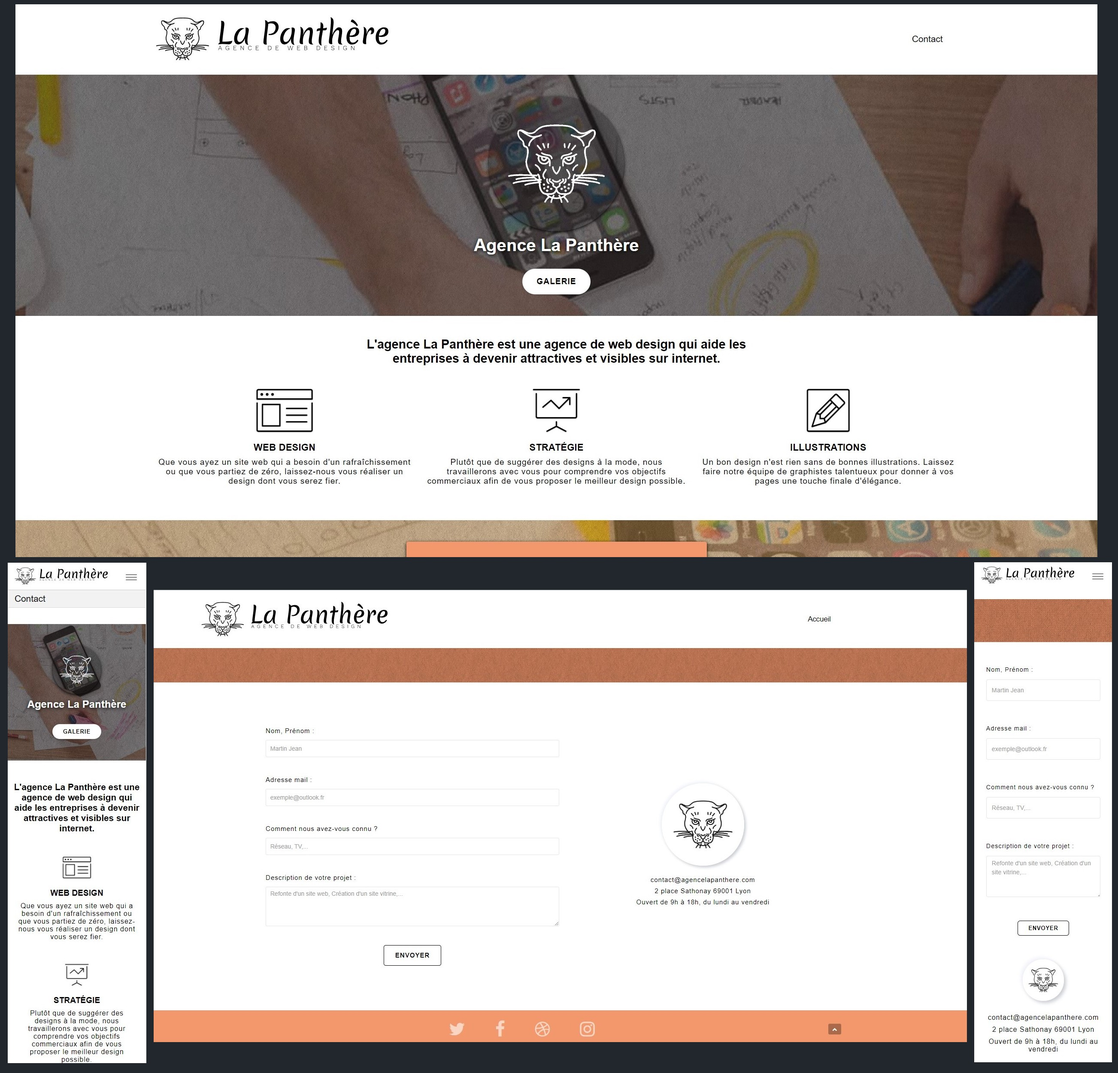
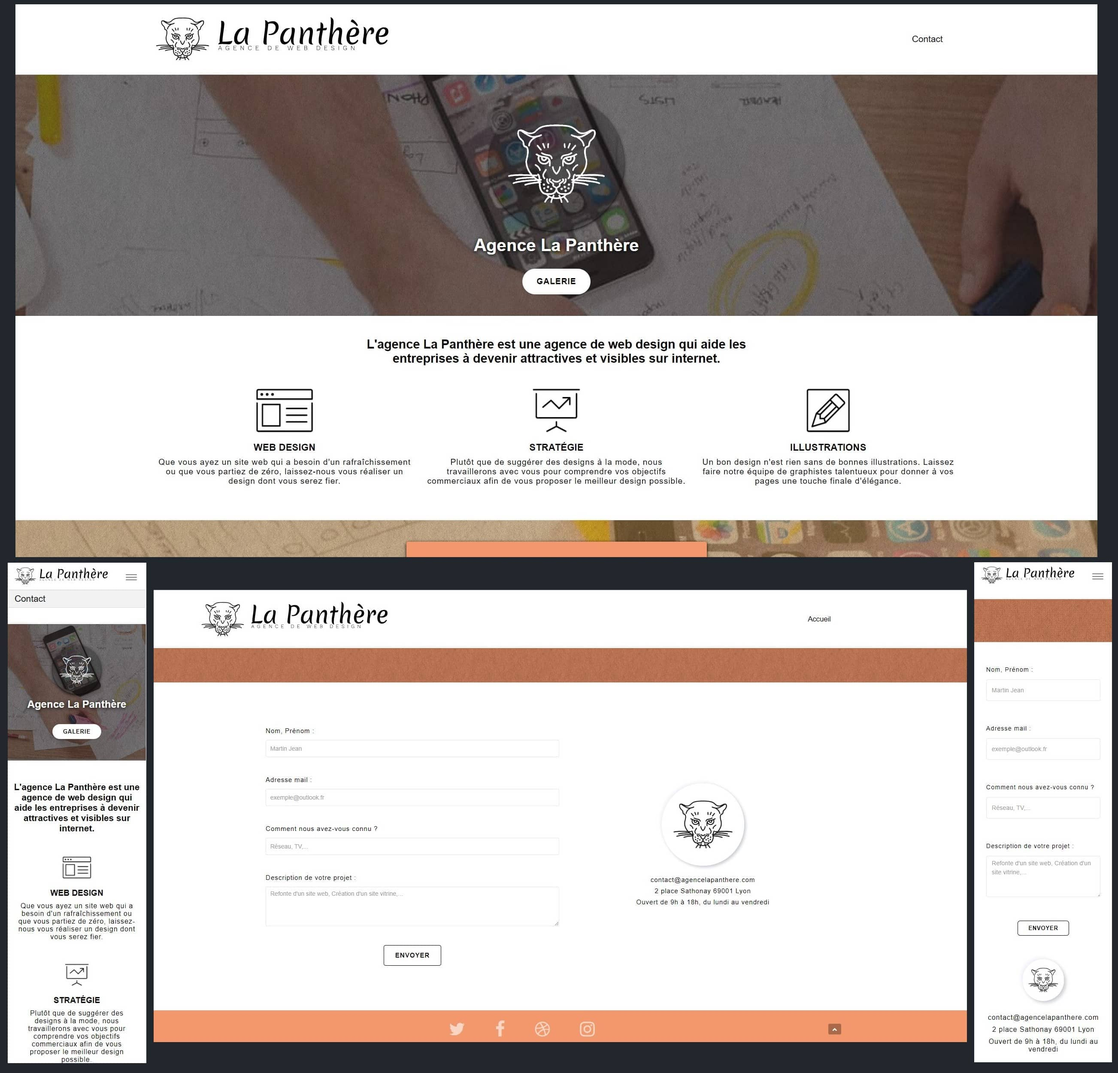
changement visuel, responsive

diff --git a/css/style.css b/css/style.css
@@ -1,1 +1,1 @@
-*,::before,::after{box-sizing:border-box;margin:0;padding:0}html{font-size:16px;scroll-behavior:smooth}body{width:100%;max-width:2600px}p{font-size:clamp(1rem,2.5vw,1.2rem);letter-spacing:1px}a:hover{text-decoration:none;cursor:pointer}li{list-style-type:none}h3{text-transform:uppercase;font-family:'helvetica';font-size:clamp(1.2rem,2vw,1.4rem);font-weight:700}.bloc{clear:both;position:relative;width:100%;padding:0 50px;background:50% 50% no-repeat;background-size:cover}.bloc .container{position:relative;padding-right:0;padding-left:0}.bloc-lg{padding:50px}.white{text-shadow:0 2px 8px #000;font-family:"helvetica";font-size:clamp(1.3rem,3vw,1.8rem);color:#fff}.bloc-md{padding:50px}.bloc-sm{padding:30px 50px}.bg-repeat{background:repeat}.bloc-bg-texture::before{content:"";position:absolute;top:0;right:0;bottom:0;left:0;background-size:2px 2px}.texture-paper::before{background:url(../img/texture-paper.webp);background-size:280px 280px}.b-parallax{background-attachment:fixed}.d-bloc .a-btn,.d-bloc .navbar a,.d-bloc .navbar-brand,.d-bloc a .icon-sm,.d-bloc a .icon-md,.d-bloc a .icon-lg,.d-bloc a .icon-xl,.d-bloc h1 a,.d-bloc h2 a,.d-bloc h3 a,.d-bloc h4 a,.d-bloc h5 a,.d-bloc h6 a,.d-bloc p a{color:rgba(255,255,255,.6)}.d-bloc .a-btn:hover,.d-bloc .navbar a:hover,.d-bloc .navbar-brand:hover,.d-bloc a:hover .icon-sm,.d-bloc a:hover .icon-md,.d-bloc a:hover .icon-lg,.d-bloc a:hover .icon-xl,.d-bloc h1 a:hover,.d-bloc h2 a:hover,.d-bloc h3 a:hover,.d-bloc h4 a:hover,.d-bloc h5 a:hover,.d-bloc h6 a:hover,.d-bloc p a:hover{color:rgba(255,255,255,1)}.l-bloc .navbar-toggle .icon-bar{color:rgba(0,0,0,.6)}.voffset-lg{margin-top:80px}.row-no-gutters{margin-right:0;margin-left:0}blockquote{margin:0 auto;margin-top:30px;max-width:1000px;font-size:clamp(1rem,2.5vw,1.2rem)}blockquote:nth-child(2){color:rgb(113,111,111)}#bloc-1-hero{background-color:#364577;height:450px}#bloc-1-hero h1{text-shadow:0 2px 8px #000;font-family:"helvetica";font-size:clamp(1.5rem,4vw,2.5rem);color:#fff}#bloc-6 h1{font-family:"helvetica";font-size:clamp(1.5rem,4vw,2.5rem)}.navbar{z-index:1;margin-bottom:0}.navbar-brand{height:auto;padding:3px 15px;font-size:25px;font-weight:400;font-weight:600;line-height:44px}.navbar-brand img{height:100px;max-height:200px}.navbar-brand img[src$=svg]{min-width:100px}.nav-center .navbar-brand img{margin:0}.navbar .nav{z-index:1;float:right;margin-right:-16px;padding-top:2px}.nav>li{float:left;margin:0 30px;margin-top:4px;font-size:1.3rem}.nav li a{position:relative;color:#000}.nav li a::after{content:'';position:absolute;bottom:5px;left:50%;width:0;height:3px;background-color:#F3976C;transition:width 0.2s ease-in-out;transform:translateX(-50%)}.nav li a:hover::after,.nav li a:focus::after{width:65%}.navbar-nav .open .dropdown-menu>li>a{text-align:inherit}.nav>li a:hover,.nav>li a:focus{background:transparent}.navbar-toggle{margin:10px 10px 0 0;border:0}.navbar-toggle:hover{background:transparent}.navbar-toggle .icon-bar{width:26px;background-color:rgba(0,0,0,.5)}.nav-invert .navbar .nav{float:left}.nav-invert .navbar-header,.nav-invert .navbar-brand{z-index:2;float:right;position:relative}form{width:50%;margin:40px 0}.nav>li>.dropdown a{display:block;padding:14px 15px;background:none}nav .caret{margin:0 5px}.dropdown-menu .dropdown-menu{top:-8px;left:100%}.dropdown-menu .dropmenu-flow-right{top:100%;left:0;margin-left:-1px;border-top-left-radius:0;border-top-right-radius:0}.dropdown-menu .dropdown span{float:right;margin:6px -5px 0 0;border:4px solid #000;border-top-color:transparent;border-right-color:transparent;border-bottom-color:transparent}.btn{border:1px solid #000}.btn-d,.btn-d:hover,.btn-d:focus{color:#FFF;background:rgba(0,0,0,.3)}.btn-rd{border-radius:40px}.btn-clean{border:1px solid rgba(0,0,0,.08);border-bottom-color:rgba(0,0,0,.1);text-shadow:0 1px 0 rgba(0,0,1,.1);box-shadow:0 1px 3px rgba(0,0,1,.25),inset 0 1px 0 0 rgba(255,255,255,.15)}.icon-md{font-size:clamp(30px,3vw,50px)}.icon-lg{font-size:clamp(50px,5vw,100px)}.sm-shadow{text-shadow:0 1px 2px rgba(0,0,0,.3)}.form-control{height:50px;border-color:rgba(0,0,0,.1);font-size:clamp(.9rem,2vw,1.1rem);box-shadow:none}.scrollToTop{display:flex;z-index:500;position:absolute;top:50%;right:20px;align-items:center;justify-content:center;border:none;opacity:1;transition:all .3s ease-in-out;transform:translateY(-50%)}a[data-lightbox]{display:block;position:relative;text-align:center;background-color:#000}a[data-lightbox]:hover::before{content:"+";display:flex;z-index:1;position:absolute;top:50%;left:50%;align-items:center;justify-content:center;width:50px;height:50px;border-radius:50%;font-family:"HelveticaNeue-Light","Helvetica Neue Light","Helvetica Neue",Helvetica,Arial;font-size:32px;font-weight:100;color:#FFF;background:rgba(0,0,0,.6);transform:translate(-50%,-50%)}a[data-lightbox]:hover img{opacity:.6;animation-fill-mode:none}#lightbox-modal{display:flex;align-items:center}#lightbox-modal .modal-dialog{margin:0 auto 0;max-width:900px}#lightbox-modal .modal-dialog img{margin:0 auto;max-height:90vh}.lightbox-caption{position:absolute;right:15px;bottom:5px;left:15px;padding:20px;text-align:center;color:#FFF;background:rgba(0,0,0,.5)}.close-lightbox{z-index:20;position:absolute;top:20px;right:20px;padding:0 9px 5px;border:none;font-size:30px;line-height:30px;color:#FFF;opacity:.3;background:rgba(0,0,0,.5)}.close-lightbox:hover,.next-lightbox:hover,.prev-lightbox:hover{color:#FFF;opacity:1}.next-lightbox,.prev-lightbox{z-index:1;position:absolute;top:45%;font-size:20px;color:rgba(255,255,255,.9);opacity:.4;background:rgba(0,0,0,.5);transition:all .2s ease-in-out}.next-lightbox{right:25px;padding:6px 8px 1px 13px}.prev-lightbox{left:25px;padding:6px 13px 1px 10px}.snapshot-lb .modal-body{padding-bottom:45px}.snapshot-lb .lightbox-caption{padding:0;color:rgb(0,0,0);background:none}.container{width:100%;max-width:1900px}.hero-bloc-text{font-size:38px}.tight-width-whitespace{margin:auto;max-width:700px}.logo{width:30%;border-radius:50%;background-color:#00000073;box-shadow:0 2px 8px rgb(0,0,0)}.logo-contact{width:45%;border-radius:50%;box-shadow:0 2px 8px rgb(0,0,0);box-shadow:5px 5px 8px #cbcfd5,-5px -5px 8px #eff3f9}label{margin-bottom:15px;font-size:clamp(.9rem,2vw,1.2rem);font-weight:500;letter-spacing:1px}.cta-hero{position:relative;margin-top:15px;padding:1rem 2rem;text-transform:uppercase;font-size:clamp(.8rem,2vw,1.2rem);font-weight:600;letter-spacing:1px;color:#000;background:#fff;transition:all 0.2s ease-in-out}.cta-hero:hover,.cta-hero:focus{background-color:#F3976C}.social{display:flex;justify-content:space-between;margin:auto;max-width:600px}.med-width-whitespace{margin:auto;max-width:2000px}.icons{margin-top:24px;margin-bottom:14px}.black-background{padding:40px;border-radius:5px;letter-spacing:1px;color:rgb(0,0,0);background-color:#F3976C;box-shadow:0 2px 8px rgb(0,0,0)}.bgc-white{background-color:#FFF}.bgc-atomic-tangerine{background-color:#F3976C}.bg-lines-h2-bg{background-image:url(../img/lines-h2-bg.png)}.bg-banniere{background-image:url(../img/agence-la-panthere.webp)}.bg-presentation{background-image:url(../img/image-de-presentation.webp)}.title-h2{width:100%;margin:0 auto;margin-bottom:30px;max-width:900px;font-family:"helvetica";font-size:clamp(1.3rem,3vw,1.8rem)}.flex-center{display:flex;align-items:center;justify-content:space-around;margin:40px 0}.flex-center p{margin:10px 0}.flex-center img{margin-bottom:20px}.portfolio-h2{width:100%;margin:40px auto;max-width:900px;font-family:"helvetica";font-size:clamp(1.3rem,3vw,1.8rem)}.navbar-toggle:focus span{background:#F3976C}@media (min-width:951px){.site-navigation{position:absolute;top:50%;right:20px;transform:translate(0,-50%);transform:translateY(-50%)}}@media only screen and (min-width:768px) and (max-width:1024px) and (orientation:landscape){.b-parallax{background-attachment:scroll}}@media only screen and (min-width:1024px) and (max-width:1366px){.b-parallax{background-attachment:scroll}}@media (max-width:950px){.b-parallax{background-attachment:scroll}.page-container,#hero-bloc{position:relative;overflow-x:hidden}.bloc-group,.bloc-group .bloc{display:block;width:100%}.bloc-fill-screen .fill-bloc-top-edge,.bloc-fill-screen .fill-bloc-bottom-edge{padding:0 20px}.nav>li{width:100%;margin:0;margin-top:0;padding-left:15px;border-bottom:1px solid rgba(0,0,0,.1);text-align:left;background:rgba(0,0,0,.05)}.nav>li:hover{background:rgba(0,0,0,.08)}.nav li a::after{content:'';display:none;position:absolute;bottom:0;left:50%;width:0;height:3px;background-color:#000;transition:width 0.2s ease-in-out;transform:translateX(-50%)}.navbar .nav{float:none;padding-top:0;border-top:1px solid rgba(0,0,0,.2)}.navbar.row{margin-right:0;margin-left:0}.navbar-brand img{width:auto;max-height:40px}.nav-invert .navbar-header{float:none;width:100%}.nav-invert .navbar-toggle{float:left;margin-left:10px}.navbar-collapse{padding:0;overflow-x:hidden;box-shadow:none}.logo-contact{width:30%}.flex-center{display:flex;flex-direction:column;justify-content:space-between;margin:0}.page-container{position:relative;overflow-x:hidden}h2,h3,h4,h5,h6,p,#disqus_thread{padding-right:10px;padding-left:10px}.b-parallax{background-attachment:scroll}.site-navigation{position:inherit;transform:none}.dropdown .dropdown a .caret{float:none;margin:5px 0 0 10px;border:4px solid #000;border-right-color:transparent;border-bottom-color:transparent;border-left-color:transparent}.cta-hero{padding:.5rem 1.5rem}#hero-bloc .navbar .nav{background:rgba(0,0,0,.8)}.bloc{padding-right:0;padding-left:0}.bloc-sm,.bloc-md{padding-right:0;padding-left:0}.bloc-tile-2 .container,.bloc-tile-3 .container,.bloc-tile-4 .container,.bloc-fill-screen .fill-bloc-top-edge,.bloc-fill-screen .fill-bloc-bottom-edge{padding-right:0;padding-left:0}.a-block{padding:0 10px}.btn-dwn{display:none}.voffset{margin-top:5px}.voffset-md{margin-top:20px}form{width:50%;width:95%;margin:0;margin-bottom:50px;padding:5px}.close-lightbox{display:inline-block}.blocsapp-device-iphone5{width:216px;height:425px;padding-top:60px;background-size:216px 425px}.blocsapp-device-iphone5 img{width:180px;height:320px}}@media screen and (max-width:768px){main .bloc-lg{padding:20px}.logo{width:150px;border-radius:50%;background-color:#00000073;box-shadow:0 2px 8px rgb(0,0,0)}#bloc-1-hero{background-color:#364577;height:288px}.black-background{padding:10px}.scrollToTop{top:-50px;border:1px solid rgba(255,255,255,.473)}}@media (max-width:400px){.bloc{padding-right:0;padding-left:0}.lightbox-caption{font-size:14px}}
+*,::before,::after{box-sizing:border-box;margin:0;padding:0}html{font-size:16px;scroll-behavior:smooth}body{width:100%;max-width:2600px}p{font-size:clamp(1rem,2.5vw,1.2rem);letter-spacing:1px}a:hover{text-decoration:none;cursor:pointer}li{list-style-type:none}h3{text-transform:uppercase;font-family:'helvetica';font-size:clamp(1.2rem,2vw,1.4rem);font-weight:700}.bloc{clear:both;position:relative;width:100%;padding:0 50px;background:50% 50% no-repeat;background-size:cover}.bloc .container{position:relative;padding-right:0;padding-left:0}.bloc-lg{padding:50px}.white{text-shadow:0 2px 8px #000;font-family:"helvetica";font-size:clamp(1.3rem,3vw,1.8rem);color:#fff}.bloc-md{padding:50px}.bloc-sm{padding:30px 50px}.bg-repeat{background:repeat}.bloc-bg-texture::before{content:"";position:absolute;top:0;right:0;bottom:0;left:0;background-size:2px 2px}.texture-paper::before{background:url(../img/texture-paper.webp);background-size:280px 280px}.b-parallax{background-attachment:fixed}.d-bloc .a-btn,.d-bloc .navbar a,.d-bloc .navbar-brand,.d-bloc a .icon-sm,.d-bloc a .icon-md,.d-bloc a .icon-lg,.d-bloc a .icon-xl,.d-bloc h1 a,.d-bloc h2 a,.d-bloc h3 a,.d-bloc h4 a,.d-bloc h5 a,.d-bloc h6 a,.d-bloc p a{color:rgba(255,255,255,.6)}.d-bloc .a-btn:hover,.d-bloc .navbar a:hover,.d-bloc .navbar-brand:hover,.d-bloc a:hover .icon-sm,.d-bloc a:hover .icon-md,.d-bloc a:hover .icon-lg,.d-bloc a:hover .icon-xl,.d-bloc h1 a:hover,.d-bloc h2 a:hover,.d-bloc h3 a:hover,.d-bloc h4 a:hover,.d-bloc h5 a:hover,.d-bloc h6 a:hover,.d-bloc p a:hover{color:rgba(255,255,255,1)}.l-bloc .navbar-toggle .icon-bar{color:rgba(0,0,0,.6)}.voffset-lg{margin-top:80px}.row-no-gutters{margin-right:0;margin-left:0}blockquote{margin:0 auto;margin-top:30px;max-width:1000px;font-size:clamp(1rem,2.5vw,1.2rem)}blockquote p:nth-child(2){color:rgb(113,111,111); margin-top: 5px;}#bloc-1-hero{background-color:#364577;height:450px}#bloc-1-hero h1{text-shadow:0 2px 8px #000;font-family:"helvetica";font-size:clamp(1.5rem,4vw,2.5rem);color:#fff}#bloc-6 h1{font-family:"helvetica";font-size:clamp(1.5rem,4vw,2.5rem)}.navbar{z-index:1;margin-bottom:0}.navbar-brand{height:auto;padding:3px 15px;font-size:25px;font-weight:400;font-weight:600;line-height:44px}.navbar-brand img{height:100px;max-height:200px}.navbar-brand img[src$=svg]{min-width:100px}.nav-center .navbar-brand img{margin:0}.navbar .nav{z-index:1;float:right;margin-right:-16px;padding-top:2px}.nav>li{float:left;margin:0 30px;margin-top:4px;font-size:1.3rem}.nav li a{position:relative;color:#000}.nav li a::after{content:'';position:absolute;bottom:5px;left:50%;width:0;height:3px;background-color:#F3976C;transition:width 0.2s ease-in-out;transform:translateX(-50%)}.nav li a:hover::after,.nav li a:focus::after{width:65%}.navbar-nav .open .dropdown-menu>li>a{text-align:inherit}.nav>li a:hover,.nav>li a:focus{background:transparent}.navbar-toggle{margin:10px 10px 0 0;border:0}.navbar-toggle:hover{background:transparent}.navbar-toggle .icon-bar{width:26px;background-color:rgba(0,0,0,.5)}.nav-invert .navbar .nav{float:left}.nav-invert .navbar-header,.nav-invert .navbar-brand{z-index:2;float:right;position:relative}form{width:50%;margin:40px 0}.nav>li>.dropdown a{display:block;padding:14px 15px;background:none}nav .caret{margin:0 5px}.dropdown-menu .dropdown-menu{top:-8px;left:100%}.dropdown-menu .dropmenu-flow-right{top:100%;left:0;margin-left:-1px;border-top-left-radius:0;border-top-right-radius:0}.dropdown-menu .dropdown span{float:right;margin:6px -5px 0 0;border:4px solid #000;border-top-color:transparent;border-right-color:transparent;border-bottom-color:transparent}.btn{border:1px solid #000}.btn-d,.btn-d:hover,.btn-d:focus{color:#FFF;background:rgba(0,0,0,.3)}.btn-rd{border-radius:40px}.btn-clean{border:1px solid rgba(0,0,0,.08);border-bottom-color:rgba(0,0,0,.1);text-shadow:0 1px 0 rgba(0,0,1,.1);box-shadow:0 1px 3px rgba(0,0,1,.25),inset 0 1px 0 0 rgba(255,255,255,.15)}.icon-md{font-size:clamp(30px,3vw,50px)}.icon-lg{font-size:clamp(50px,5vw,100px)}.sm-shadow{text-shadow:0 1px 2px rgba(0,0,0,.3)}.form-control{height:50px;border-color:rgba(0,0,0,.1);font-size:clamp(.9rem,2vw,1.1rem);box-shadow:none}.scrollToTop{display:flex;z-index:500;position:absolute;top:50%;right:20px;align-items:center;justify-content:center;border:none;opacity:1;transition:all .3s ease-in-out;transform:translateY(-50%)}a[data-lightbox]{display:block;position:relative;text-align:center;background-color:#000}a[data-lightbox]:hover::before{content:"+";display:flex;z-index:1;position:absolute;top:50%;left:50%;align-items:center;justify-content:center;width:50px;height:50px;border-radius:50%;font-family:"HelveticaNeue-Light","Helvetica Neue Light","Helvetica Neue",Helvetica,Arial;font-size:32px;font-weight:100;color:#FFF;background:rgba(0,0,0,.6);transform:translate(-50%,-50%)}a[data-lightbox]:hover img{opacity:.6;animation-fill-mode:none}#lightbox-modal{display:flex;align-items:center}#lightbox-modal .modal-dialog{margin:0 auto 0;max-width:900px}#lightbox-modal .modal-dialog img{margin:0 auto;max-height:90vh}.lightbox-caption{position:absolute;right:15px;bottom:5px;left:15px;padding:20px;text-align:center;color:#FFF;background:rgba(0,0,0,.5)}.close-lightbox{z-index:20;position:absolute;top:20px;right:20px;padding:0 9px 5px;border:none;font-size:30px;line-height:30px;color:#FFF;opacity:.3;background:rgba(0,0,0,.5)}.close-lightbox:hover,.next-lightbox:hover,.prev-lightbox:hover{color:#FFF;opacity:1}.next-lightbox,.prev-lightbox{z-index:1;position:absolute;top:45%;font-size:20px;color:rgba(255,255,255,.9);opacity:.4;background:rgba(0,0,0,.5);transition:all .2s ease-in-out}.next-lightbox{right:25px;padding:6px 8px 1px 13px}.prev-lightbox{left:25px;padding:6px 13px 1px 10px}.snapshot-lb .modal-body{padding-bottom:45px}.snapshot-lb .lightbox-caption{padding:0;color:rgb(0,0,0);background:none}.container{width:100%;max-width:1900px}.hero-bloc-text{font-size:38px}.tight-width-whitespace{margin:auto;max-width:700px}.logo{width:30%;border-radius:50%;background-color:#F3976C;box-shadow:0 2px 8px rgb(0,0,0)}.logo-contact{width:45%;border-radius:50%;box-shadow:0 2px 8px rgb(0,0,0);box-shadow:5px 5px 8px #cbcfd5,-5px -5px 8px #eff3f9}label{margin-bottom:15px;font-size:clamp(.9rem,2vw,1.2rem);font-weight:500;letter-spacing:1px}.cta-hero{position:relative;margin-top:15px;padding:1rem 2rem;text-transform:uppercase;font-size:clamp(.8rem,2vw,1.2rem);font-weight:600;letter-spacing:1px;color:#000;background:#fff;transition:all 0.2s ease-in-out}.cta-hero:hover,.cta-hero:focus{background-color:#F3976C}.social{display:flex;justify-content:space-between;margin:auto;max-width:600px}.med-width-whitespace{margin:auto;max-width:2000px}.icons{margin-top:24px;margin-bottom:14px}.black-background{padding:40px;border-radius:5px;letter-spacing:1px;color:rgb(0,0,0);background-color:#F3976C;box-shadow:0 2px 8px rgb(0,0,0)}.bgc-white{background-color:#FFF}.bgc-atomic-tangerine{background-color:#F3976C}.bg-lines-h2-bg{background-image:url(../img/lines-h2-bg.png)}.bg-banniere{background-image:url(../img/agence-la-panthere.webp)}.bg-presentation{background-image:url(../img/image-de-presentation.webp)}.title-h2{width:100%;margin:0 auto;margin-bottom:30px;max-width:900px;font-family:"helvetica";font-size:clamp(1.3rem,3vw,1.8rem)}.flex-center{display:flex;align-items:center;justify-content:space-around;margin:40px 0}.flex-center p{margin:10px 0}.flex-center img{margin-bottom:20px}.portfolio-h2{width:100%;margin:40px auto;max-width:900px;font-family:"helvetica";font-size:clamp(1.3rem,3vw,1.8rem)}.navbar-toggle:focus span{background:#F3976C}@media (min-width:951px){.site-navigation{position:absolute;top:50%;right:20px;transform:translate(0,-50%);transform:translateY(-50%)}}@media only screen and (min-width:768px) and (max-width:1024px) and (orientation:landscape){.b-parallax{background-attachment:scroll}}@media only screen and (min-width:1024px) and (max-width:1366px){.b-parallax{background-attachment:scroll}}@media (max-width:950px){.b-parallax{background-attachment:scroll}.page-container,#hero-bloc{position:relative;overflow-x:hidden}.bloc-group,.bloc-group .bloc{display:block;width:100%}.bloc-fill-screen .fill-bloc-top-edge,.bloc-fill-screen .fill-bloc-bottom-edge{padding:0 20px}.nav>li{width:100%;margin:0;margin-top:0;border-bottom:1px solid rgba(0,0,0,.1);text-align:left;background:rgba(0,0,0,.05)}.nav>li:hover{background:rgba(0,0,0,.08)}.nav li a::after{content:'';display:none;position:absolute;bottom:0;left:50%;width:0;height:3px;background-color:#000;transition:width 0.2s ease-in-out;transform:translateX(-50%)}.navbar .nav{float:none;padding-top:0;border-top:1px solid rgba(0,0,0,.2)}.navbar.row{margin-right:0;margin-left:0}.navbar-brand img{width:auto;max-height:40px}.nav-invert .navbar-header{float:none;width:100%}.nav-invert .navbar-toggle{float:left;margin-left:10px}.navbar-collapse{padding:0;overflow-x:hidden;box-shadow:none}.logo-contact{width:30%}.flex-center{display:flex;flex-direction:column;justify-content:space-between;margin:0}.page-container{position:relative;overflow-x:hidden}h2,h3,h4,h5,h6,p,#disqus_thread{padding-right:10px;padding-left:10px}.b-parallax{background-attachment:scroll}.site-navigation{position:inherit;transform:none}.dropdown .dropdown a .caret{float:none;margin:5px 0 0 10px;border:4px solid #000;border-right-color:transparent;border-bottom-color:transparent;border-left-color:transparent}.cta-hero{padding:.5rem 1.5rem}#hero-bloc .navbar .nav{background:rgba(0,0,0,.8)}.bloc{padding-right:0;padding-left:0}.bloc-sm,.bloc-md{padding-right:0;padding-left:0}.bloc-tile-2 .container,.bloc-tile-3 .container,.bloc-tile-4 .container,.bloc-fill-screen .fill-bloc-top-edge,.bloc-fill-screen .fill-bloc-bottom-edge{padding-right:0;padding-left:0}.a-block{padding:0 10px}.btn-dwn{display:none}.voffset{margin-top:5px}.voffset-md{margin-top:20px}form{width:50%;width:95%;margin:0;margin-bottom:50px;padding:5px}.close-lightbox{display:inline-block}.blocsapp-device-iphone5{width:216px;height:425px;padding-top:60px;background-size:216px 425px}.blocsapp-device-iphone5 img{width:180px;height:320px}}@media screen and (max-width:768px){main .bloc-lg{padding:20px}.logo{width:150px;border-radius:50%}#bloc-1-hero{background-color:#364577;height:288px}.black-background{padding:10px}.scrollToTop{top:-50px;border:1px solid rgba(255,255,255,.473)}}@media (max-width:400px){.bloc{padding-right:0;padding-left:0}.lightbox-caption{font-size:14px}}

diff --git a/css/bootstrap.css b/css/bootstrap.css
@@ -1,1 +1,1 @@
-html{font-family:sans-serif;-webkit-text-size-adjust:100%;-ms-text-size-adjust:100%}body{margin:0}.modal-body{position:relative;padding:15px}.modal-open{overflow:hidden}.modal{position:fixed;top:0;right:0;bottom:0;left:0;z-index:1050;display:none;overflow:hidden;-webkit-overflow-scrolling:touch;outline:0}.fade{opacity:0;-webkit-transition:opacity .15s linear;-o-transition:opacity .15s linear;transition:opacity .15s linear}.fade.in{opacity:1}.modal.fade .modal-dialog{-webkit-transition:-webkit-transform .3s ease-out;-o-transition:-o-transform .3s ease-out;transition:transform .3s ease-out;-webkit-transform:translate(0,-25%);-ms-transform:translate(0,-25%);-o-transform:translate(0,-25%);transform:translate(0,-25%)}.modal.in .modal-dialog{-webkit-transform:translate(0,0);-ms-transform:translate(0,0);-o-transform:translate(0,0);transform:translate(0,0)}.modal-open .modal{overflow-x:hidden;overflow-y:auto}.modal-dialog{position:relative;width:auto;margin:10px}.modal-content{position:relative;background-color:#fff;-webkit-background-clip:padding-box;background-clip:padding-box;border:1px solid #999;border:1px solid rgba(0,0,0,.2);border-radius:6px;outline:0;-webkit-box-shadow:0 3px 9px rgba(0,0,0,.5);box-shadow:0 3px 9px rgba(0,0,0,.5)}.modal-backdrop.fade{filter:alpha(opacity=0);opacity:0}.modal-backdrop.in{filter:alpha(opacity=50);opacity:.5}article,aside,details,figcaption,figure,footer,header,hgroup,main,menu,nav,section,summary{display:block}a{background-color:transparent}h1{margin:.67em 0;font-size:2em}img{border:0}button,input,optgroup,select,textarea{margin:0;font:inherit;color:inherit}button{overflow:visible}button,select{text-transform:none}button,html input[type=button],input[type=reset],input[type=submit]{-webkit-appearance:button;cursor:pointer}*{-webkit-box-sizing:border-box;-moz-box-sizing:border-box;box-sizing:border-box}button,input,select,textarea{font-family:inherit;font-size:inherit;line-height:inherit}a{text-decoration:none}img{vertical-align:middle}.carousel-inner>.item>a>img,.carousel-inner>.item>img,.img-responsive,.thumbnail a>img,.thumbnail>img{display:block;height:auto;object-fit:cover;object-position:center;margin:0 auto;width:320px}.h1,.h2,.h3,h1,h2,h3{margin-top:10px;margin-bottom:10px}.text-center{text-align:center}.container{padding-right:15px;padding-left:15px;margin-right:auto;margin-left:auto}.col-sm-6{margin:0 10px;padding:0 0 10px}.col-sm-4{margin-bottom:30px;padding:0 10px;text-align:justify}.col-sm-12{position:relative;padding:0}@media (min-width:768px){.col-sm-12,.col-sm-4,.col-sm-6,.col-sm-9{float:left}.col-sm-12{width:100%}.col-sm-6{width:320px;margin-bottom:50px}.col-sm-4{width:33.33333333%}}label{display:inline-block;max-width:100%;margin-bottom:5px;font-weight:700}.form-control{display:block;width:100%;height:34px;padding:6px 12px;font-size:14px;line-height:1.42857143;color:#555;background-color:#fff;background-image:none;border:1px solid #ccc;border-radius:4px;-webkit-box-shadow:inset 0 1px 1px rgba(0,0,0,.075);box-shadow:inset 0 1px 1px rgba(0,0,0,.075);-webkit-transition:border-color ease-in-out .15s,-webkit-box-shadow ease-in-out .15s;-o-transition:border-color ease-in-out .15s,box-shadow ease-in-out .15s;transition:border-color ease-in-out .15s,box-shadow ease-in-out .15s}.form-control:focus{border-color:#66afe9;outline:0;-webkit-box-shadow:inset 0 1px 1px rgba(0,0,0,.075),0 0 8px rgba(102,175,233,.6);box-shadow:inset 0 1px 1px rgba(0,0,0,.075),0 0 8px rgba(102,175,233,.6)}.form-control::-moz-placeholder{color:#999;opacity:1}.form-control:-ms-input-placeholder{color:#999}.form-control::-webkit-input-placeholder{color:#999}textarea.form-control{height:auto}.form-group{margin:0 auto;width:90%;margin-bottom:55px}.help-block{display:block;margin-top:5px;margin-bottom:10px;color:#737373}.btn{display:inline-block;padding:6px 12px;margin-bottom:0;font-size:14px;font-weight:400;line-height:1.42857143;text-align:center;white-space:nowrap;vertical-align:middle;-ms-touch-action:manipulation;touch-action:manipulation;cursor:pointer;-webkit-user-select:none;-moz-user-select:none;-ms-user-select:none;user-select:none;background-image:none;border:1px solid transparent;border-radius:4px}.btn-group-lg>.btn,.btn-lg{padding:10px 16px;font-size:18px;line-height:1.3333333;border-radius:6px}.btn-block{display:block;margin:0 auto}.collapse{display:none}.collapse.in{display:block}.collapsing{position:relative;height:0;overflow:hidden;-webkit-transition-timing-function:ease;-o-transition-timing-function:ease;transition-timing-function:ease;-webkit-transition-duration:.35s;-o-transition-duration:.35s;transition-duration:.35s;-webkit-transition-property:height,visibility;-o-transition-property:height,visibility;transition-property:height,visibility}.nav{padding-left:0;margin-bottom:0;list-style:none}.nav>li{position:relative;display:block}.nav>li>a{position:relative;display:block;padding:10px 15px}.navbar{position:relative;min-height:50px;margin-bottom:20px;border:1px solid transparent}@media (min-width:768px){.navbar{border-radius:4px}}.navbar-collapse{padding-right:15px;padding-left:15px;overflow-x:visible;-webkit-overflow-scrolling:touch;border-top:1px solid transparent;-webkit-box-shadow:inset 0 1px 0 rgba(255,255,255,.1);box-shadow:inset 0 1px 0 rgba(255,255,255,.1)}@media (min-width:951px){.navbar-collapse.collapse{display:block;;height:auto;;padding-bottom:0;overflow:visible}}.navbar-brand{float:left;height:50px;padding:15px 15px;font-size:18px;line-height:20px}.navbar-brand>img{display:block}.navbar-toggle{position:relative;float:right;padding:9px 10px;margin-top:8px;margin-right:15px;margin-bottom:8px;background-color:transparent;background-image:none;border:1px solid transparent;border-radius:4px}.navbar-toggle .icon-bar{display:block;width:22px;height:2px;border-radius:1px}.navbar-toggle .icon-bar+.icon-bar{margin-top:4px}@media (min-width:951px){.navbar-toggle{display:none}}.modal-backdrop{position:fixed;top:0;right:0;bottom:0;left:0;z-index:1040;background-color:#000}.modal-header{min-height:16.43px;padding:15px;border-bottom:1px solid #e5e5e5}.modal-header .close{margin-top:-2px}.modal-title{margin:0;line-height:1.42857143}.modal-body{position:relative;padding:15px}.modal-footer{padding:15px;text-align:right;border-top:1px solid #e5e5e5}.modal-footer .btn+.btn{margin-bottom:0;margin-left:5px}.modal-footer .btn-group .btn+.btn{margin-left:-1px}.modal-footer .btn-block+.btn-block{margin-left:0}.modal-scrollbar-measure{position:absolute;top:-9999px;width:50px;height:50px;overflow:scroll}@media (min-width:768px){.modal-dialog{width:600px;margin:30px auto}.modal-content{-webkit-box-shadow:0 5px 15px rgba(0,0,0,.5);box-shadow:0 5px 15px rgba(0,0,0,.5)}.modal-sm{width:300px}}.btn-group-vertical>.btn-group:after,.btn-group-vertical>.btn-group:before,.btn-toolbar:after,.btn-toolbar:before,.clearfix:after,.clearfix:before,.container-fluid:after,.container-fluid:before,.container:after,.container:before,.dl-horizontal dd:after,.dl-horizontal dd:before,.form-horizontal .form-group:after,.form-horizontal .form-group:before,.modal-footer:after,.modal-footer:before,.nav:after,.nav:before,.navbar-collapse:after,.navbar-collapse:before,.navbar-header:after,.navbar-header:before,.navbar:after,.navbar:before,.pager:after,.pager:before,.panel-body:after,.panel-body:before,.row:after,.row:before{display:table;content:" "}.btn-group-vertical>.btn-group:after,.btn-toolbar:after,.clearfix:after,.container-fluid:after,.container:after,.dl-horizontal dd:after,.form-horizontal .form-group:after,.modal-footer:after,.nav:after,.navbar-collapse:after,.navbar-header:after,.navbar:after,.pager:after,.panel-body:after,.row:after{clear:both}.center-block{display:block;margin-right:auto;margin-left:auto}@media (max-width:767px){.col-sm-6{width:320px;margin:0 auto;margin-bottom:50px}.col-sm-6 img{width:100%}}@media (max-width:767px){.carousel-inner>.item>a>img,.carousel-inner>.item>img,.img-responsive,.thumbnail a>img,.thumbnail>img{width:100%}}
+html{font-family:sans-serif;-webkit-text-size-adjust:100%;-ms-text-size-adjust:100%}body{margin:0}.modal-body{position:relative;padding:15px}.modal-open{overflow:hidden}.modal{position:fixed;top:0;right:0;bottom:0;left:0;z-index:1050;display:none;overflow:hidden;-webkit-overflow-scrolling:touch;outline:0}.fade{opacity:0;-webkit-transition:opacity .15s linear;-o-transition:opacity .15s linear;transition:opacity .15s linear}.fade.in{opacity:1}.modal.fade .modal-dialog{-webkit-transition:-webkit-transform .3s ease-out;-o-transition:-o-transform .3s ease-out;transition:transform .3s ease-out;-webkit-transform:translate(0,-25%);-ms-transform:translate(0,-25%);-o-transform:translate(0,-25%);transform:translate(0,-25%)}blockquote{padding: 10px 20px;margin: 0 0 20px;font-size: 17.5px;border-left: 5px solid #eee}.modal.in .modal-dialog{-webkit-transform:translate(0,0);-ms-transform:translate(0,0);-o-transform:translate(0,0);transform:translate(0,0)}.modal-open .modal{overflow-x:hidden;overflow-y:auto}.modal-dialog{position:relative;width:auto;margin:10px}.modal-content{position:relative;background-color:#fff;-webkit-background-clip:padding-box;background-clip:padding-box;border:1px solid #999;border:1px solid rgba(0,0,0,.2);border-radius:6px;outline:0;-webkit-box-shadow:0 3px 9px rgba(0,0,0,.5);box-shadow:0 3px 9px rgba(0,0,0,.5)}.modal-backdrop.fade{filter:alpha(opacity=0);opacity:0}.modal-backdrop.in{filter:alpha(opacity=50);opacity:.5}article,aside,details,figcaption,figure,footer,header,hgroup,main,menu,nav,section,summary{display:block}a{background-color:transparent}h1{margin:.67em 0;font-size:2em}img{border:0}button,input,optgroup,select,textarea{margin:0;font:inherit;color:inherit}button{overflow:visible}button,select{text-transform:none}button,html input[type=button],input[type=reset],input[type=submit]{-webkit-appearance:button;cursor:pointer}*{-webkit-box-sizing:border-box;-moz-box-sizing:border-box;box-sizing:border-box}button,input,select,textarea{font-family:inherit;font-size:inherit;line-height:inherit}a{text-decoration:none}img{vertical-align:middle}.carousel-inner>.item>a>img,.carousel-inner>.item>img,.img-responsive,.thumbnail a>img,.thumbnail>img{display:block;height:auto;object-fit:cover;object-position:center;margin:0 auto;width:320px}.h1,.h2,.h3,h1,h2,h3{margin-top:10px;margin-bottom:10px}.text-center{text-align:center}.container{padding-right:15px;padding-left:15px;margin-right:auto;margin-left:auto}.col-sm-6{margin:0 10px;padding:0 0 10px}.col-sm-4{margin-bottom:30px;padding:0 10px;text-align:justify}.col-sm-12{position:relative;padding:0}@media (min-width:768px){.col-sm-12,.col-sm-4,.col-sm-6,.col-sm-9{float:left}.col-sm-12{width:100%}.col-sm-6{width:320px;margin-bottom:50px}.col-sm-4{width:33.33333333%}}label{display:inline-block;max-width:100%;margin-bottom:5px;font-weight:700}.form-control{display:block;width:100%;height:34px;padding:6px 12px;font-size:14px;line-height:1.42857143;color:#555;background-color:#fff;background-image:none;border:1px solid #ccc;border-radius:4px;-webkit-box-shadow:inset 0 1px 1px rgba(0,0,0,.075);box-shadow:inset 0 1px 1px rgba(0,0,0,.075);-webkit-transition:border-color ease-in-out .15s,-webkit-box-shadow ease-in-out .15s;-o-transition:border-color ease-in-out .15s,box-shadow ease-in-out .15s;transition:border-color ease-in-out .15s,box-shadow ease-in-out .15s}.form-control:focus{border-color:#66afe9;outline:0;-webkit-box-shadow:inset 0 1px 1px rgba(0,0,0,.075),0 0 8px rgba(102,175,233,.6);box-shadow:inset 0 1px 1px rgba(0,0,0,.075),0 0 8px rgba(102,175,233,.6)}.form-control::-moz-placeholder{color:#999;opacity:1}.form-control:-ms-input-placeholder{color:#999}.form-control::-webkit-input-placeholder{color:#999}textarea.form-control{height:auto}.form-group{margin:0 auto;width:90%;margin-bottom:55px}.help-block{display:block;margin-top:5px;margin-bottom:10px;color:#737373}.btn{display:inline-block;padding:6px 12px;margin-bottom:0;font-size:14px;font-weight:400;line-height:1.42857143;text-align:center;white-space:nowrap;vertical-align:middle;-ms-touch-action:manipulation;touch-action:manipulation;cursor:pointer;-webkit-user-select:none;-moz-user-select:none;-ms-user-select:none;user-select:none;background-image:none;border:1px solid transparent;border-radius:4px}.btn-group-lg>.btn,.btn-lg{padding:10px 16px;font-size:18px;line-height:1.3333333;border-radius:6px}.btn-block{display:block;margin:0 auto}.collapse{display:none}.collapse.in{display:block}.collapsing{position:relative;height:0;overflow:hidden;-webkit-transition-timing-function:ease;-o-transition-timing-function:ease;transition-timing-function:ease;-webkit-transition-duration:.35s;-o-transition-duration:.35s;transition-duration:.35s;-webkit-transition-property:height,visibility;-o-transition-property:height,visibility;transition-property:height,visibility}.nav{padding-left:0;margin-bottom:0;list-style:none}.nav>li{position:relative;display:block}.nav>li>a{position:relative;display:block;padding:10px 15px}.navbar{position:relative;min-height:50px;margin-bottom:20px;border:1px solid transparent}@media (min-width:768px){.navbar{border-radius:4px}}.navbar-collapse{padding-right:15px;padding-left:15px;overflow-x:visible;-webkit-overflow-scrolling:touch;border-top:1px solid transparent;-webkit-box-shadow:inset 0 1px 0 rgba(255,255,255,.1);box-shadow:inset 0 1px 0 rgba(255,255,255,.1)}@media (min-width:951px){.navbar-collapse.collapse{display:block;;height:auto;;padding-bottom:0;overflow:visible}}.navbar-brand{float:left;height:50px;padding:15px 15px;font-size:18px;line-height:20px}.navbar-brand>img{display:block}.navbar-toggle{position:relative;float:right;padding:9px 10px;margin-top:8px;margin-right:15px;margin-bottom:8px;background-color:transparent;background-image:none;border:1px solid transparent;border-radius:4px}.navbar-toggle .icon-bar{display:block;width:22px;height:2px;border-radius:1px}.navbar-toggle .icon-bar+.icon-bar{margin-top:4px}@media (min-width:951px){.navbar-toggle{display:none}}.modal-backdrop{position:fixed;top:0;right:0;bottom:0;left:0;z-index:1040;background-color:#000}.modal-header{min-height:16.43px;padding:15px;border-bottom:1px solid #e5e5e5}.modal-header .close{margin-top:-2px}.modal-title{margin:0;line-height:1.42857143}.modal-body{position:relative;padding:15px}.modal-footer{padding:15px;text-align:right;border-top:1px solid #e5e5e5}.modal-footer .btn+.btn{margin-bottom:0;margin-left:5px}.modal-footer .btn-group .btn+.btn{margin-left:-1px}.modal-footer .btn-block+.btn-block{margin-left:0}.modal-scrollbar-measure{position:absolute;top:-9999px;width:50px;height:50px;overflow:scroll}@media (min-width:768px){.modal-dialog{width:600px;margin:30px auto}.modal-content{-webkit-box-shadow:0 5px 15px rgba(0,0,0,.5);box-shadow:0 5px 15px rgba(0,0,0,.5)}.modal-sm{width:300px}}.btn-group-vertical>.btn-group:after,.btn-group-vertical>.btn-group:before,.btn-toolbar:after,.btn-toolbar:before,.clearfix:after,.clearfix:before,.container-fluid:after,.container-fluid:before,.container:after,.container:before,.dl-horizontal dd:after,.dl-horizontal dd:before,.form-horizontal .form-group:after,.form-horizontal .form-group:before,.modal-footer:after,.modal-footer:before,.nav:after,.nav:before,.navbar-collapse:after,.navbar-collapse:before,.navbar-header:after,.navbar-header:before,.navbar:after,.navbar:before,.pager:after,.pager:before,.panel-body:after,.panel-body:before,.row:after,.row:before{display:table;content:" "}.btn-group-vertical>.btn-group:after,.btn-toolbar:after,.clearfix:after,.container-fluid:after,.container:after,.dl-horizontal dd:after,.form-horizontal .form-group:after,.modal-footer:after,.nav:after,.navbar-collapse:after,.navbar-header:after,.navbar:after,.pager:after,.panel-body:after,.row:after{clear:both}.center-block{display:block;margin-right:auto;margin-left:auto}@media (max-width:767px){.col-sm-6{width:320px;margin:0 auto;margin-bottom:50px}.col-sm-6 img{width:100%}}@media (max-width:767px){.form-group{margin-bottom: 20px;}.carousel-inner>.item>a>img,.carousel-inner>.item>img,.img-responsive,.thumbnail a>img,.thumbnail>img{width:100%}}
